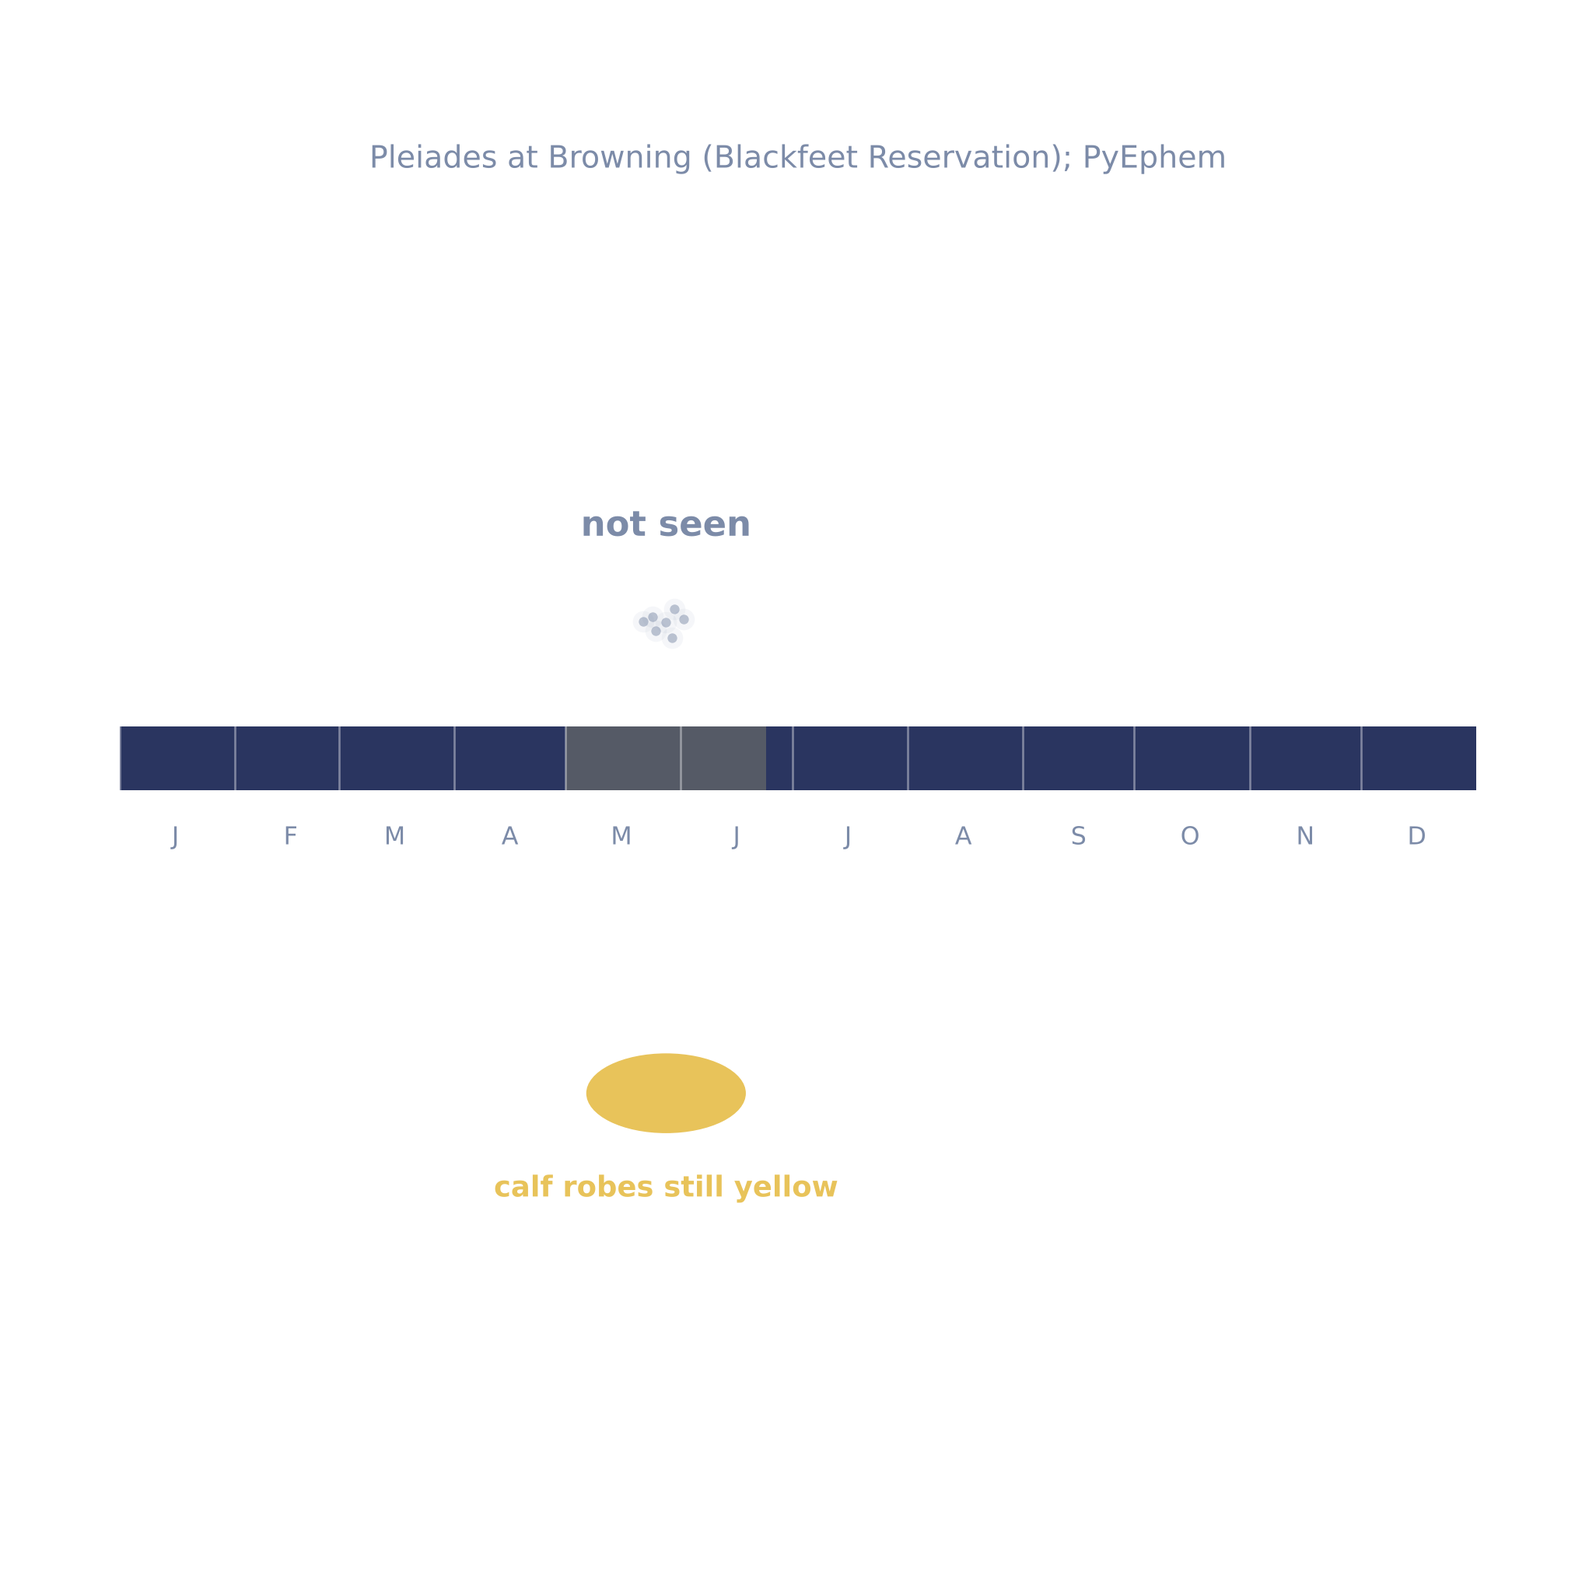
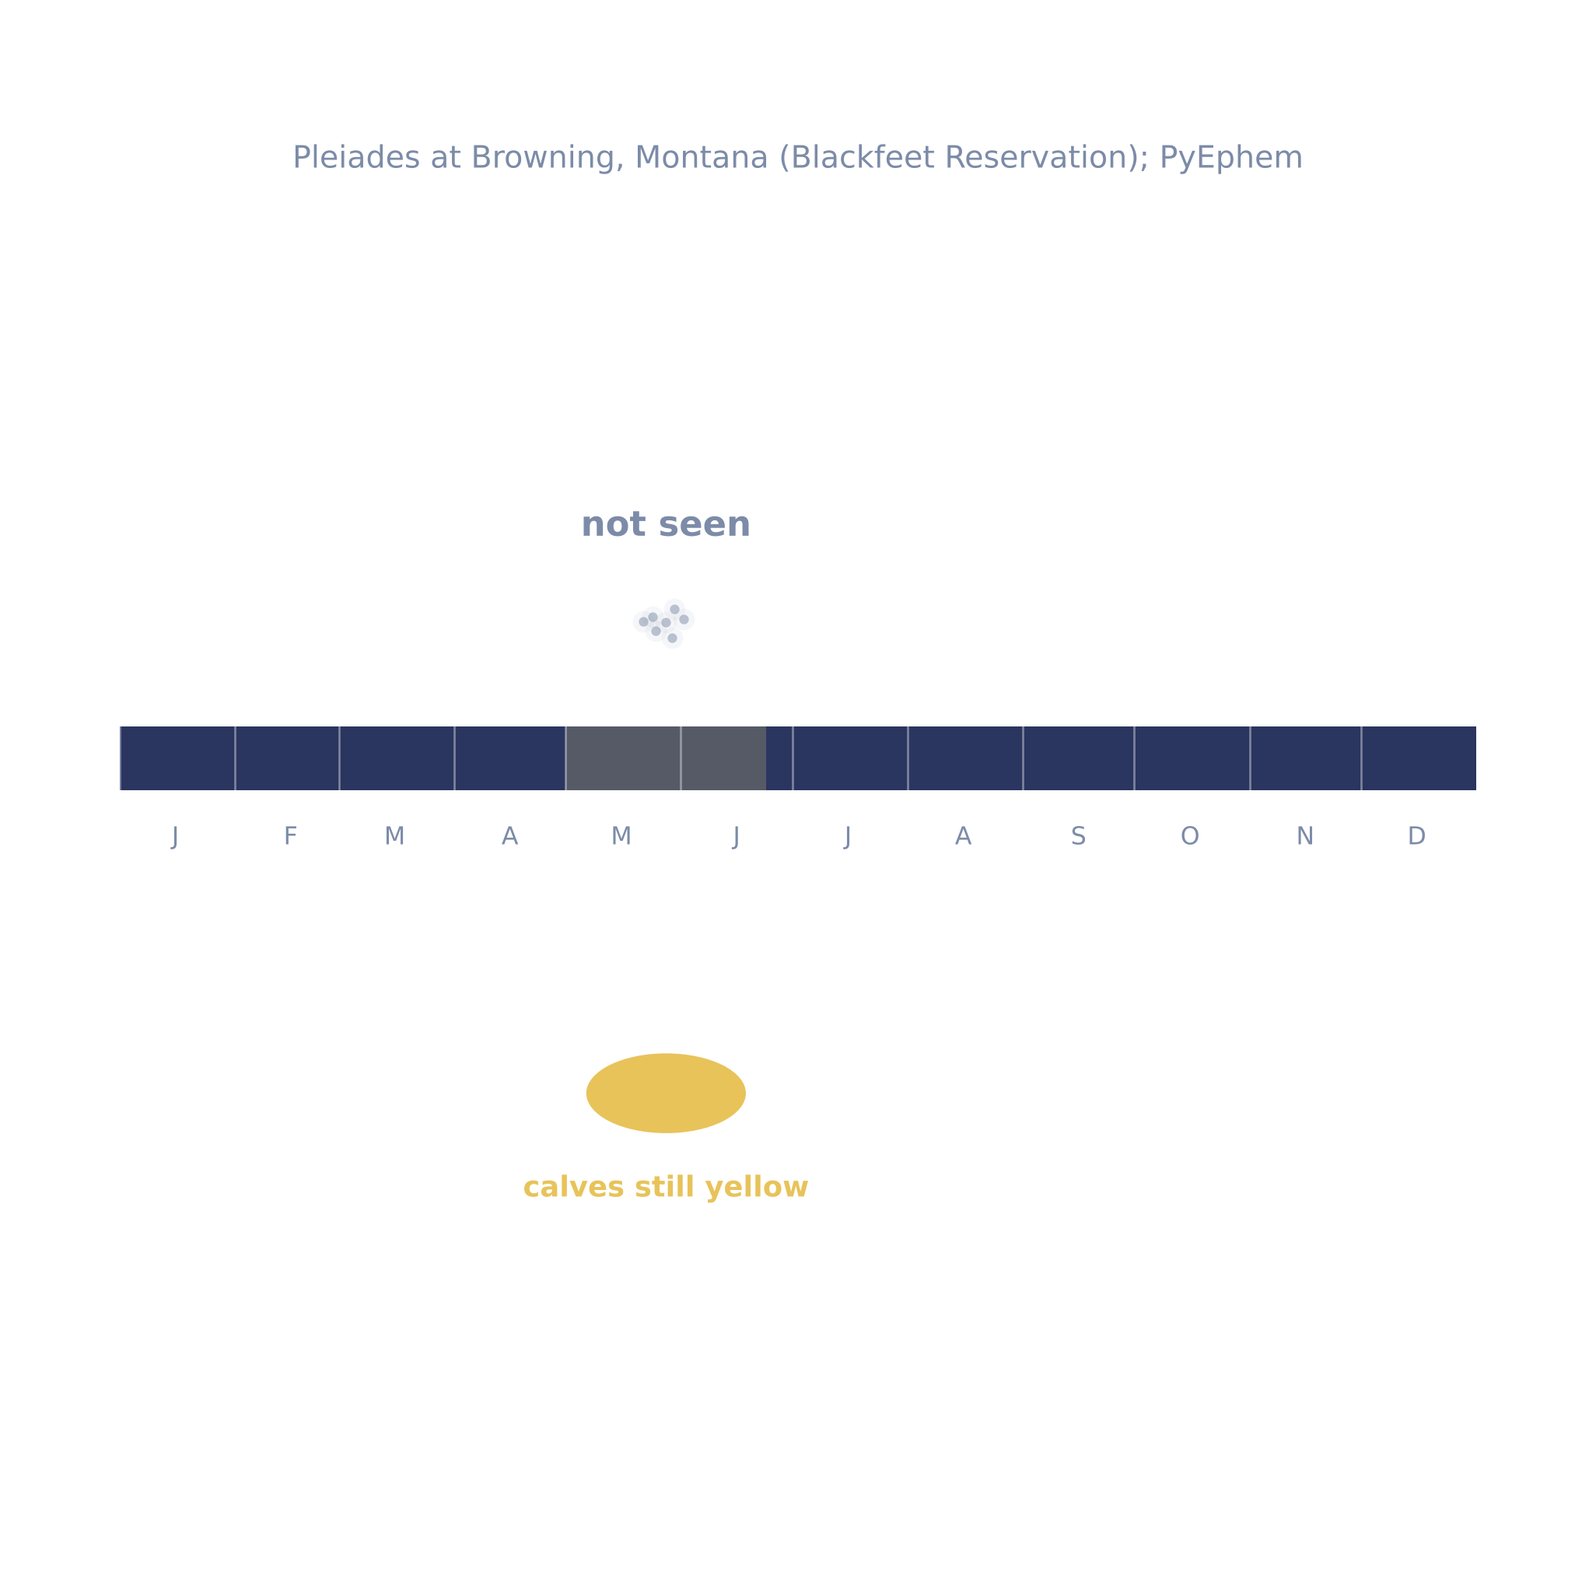
EN10 合併英文審稿：v0 → v1（採用 13 條、部分採用 3 條、不採用 3 條），重畫英文概念圖、重產逐頁文字與字幕，英文節目表改 v1
Claude-Session: https://claude.ai/code/session_019bt7Vj8K69fUpDfCPzi9no

Changed region(s): [[0.1871, 0.0936, 0.8109, 0.1248], [0.3119, 0.7173, 0.5302, 0.7485]]

diff --git a/02_製作流程SOP/make_a17_diagrams.py b/02_製作流程SOP/make_a17_diagrams.py
@@ -67,7 +67,7 @@ TXT = {
         "rain": "第八天，下雨了",
     },
     "en": {
-        "c01_title": "Three bands on a lodge", "c01_sub": "McClintock 1910 pp.217–220; generic sketch, no real design",
+        "c01_title": "Three bands on a tipi", "c01_sub": "McClintock 1910 pp.217–220; generic sketch, no real design",
         "sky": "Top band: the night sky", "dipper": "Big Dipper", "pleiades": "Pleiades", "sep": " · ", "morning": "Morning Star (cross)",
         "middle": "Middle: owner's design, not shown",
         "earth": "Bottom band: the earth", "dusty": "dusty stars = fallen meteors",
@@ -76,9 +76,9 @@ TXT = {
         "lake": "a lake appears", "tree": "up the tall tree", "fall": "four knocked down = the bowl",
         "c03_title": "The turnip she must not dig", "c03_sub": "McClintock 1910 p.492 ff.; Feather Woman",
         "skyland": "the sky country", "turnip": "great turnip", "hole": "through the hole: home below",
-        "c04_title": "The Lost Children vanish in spring", "c04_sub": "Pleiades at Browning (Blackfeet Reservation); PyEphem",
+        "c04_title": "The Lost Children vanish in spring", "c04_sub": "Pleiades at Browning, Montana (Blackfeet Reservation); PyEphem",
         "months": ["J", "F", "M", "A", "M", "J", "J", "A", "S", "O", "N", "D"], "mon": "",
-        "gone": "not seen", "yellow": "calf robes still yellow", "last": "May 1: last evening view", "back": "Jun 24: back at dawn",
+        "gone": "not seen", "yellow": "calves still yellow", "last": "May 1: last evening view", "back": "Jun 24: back at dawn",
         "brown": "autumn, calves turn brown: back every night", "oct": "Oct 10: back in the evening sky",
         "c05_title": "Tonight and tomorrow at dawn", "c05_date": "Fri Jan 15 evening · Sat Jan 16 dawn · Taipei",
         "p1": "8 pm: look straight up", "p2": "5:30 am: look southeast", "p3": "5:30 am: look north",

diff --git a/04_腳本庫/_英文版/EN10-A-17-Blackfoot-v1.md b/04_腳本庫/_英文版/EN10-A-17-Blackfoot-v1.md
@@ -1,0 +1,138 @@
+# EN10 ｜ Blackfoot: The Lost Children in the Sky ・ v1 (Gemini review merged)
+
+| Item | Content |
+|---|---|
+| Source | Chinese A-17 v2 (`A-17-黑腳族留在天上的六個孩子-逐字稿-v2.md`, fact-checked). Nothing here is new; see "Cuts and changes" for what was dropped. |
+| Publish | **2027-01-20 (Wed) 21:00 Taiwan time**: EN10 in `06_發布月曆/節目表_萬國星空_英文版.csv` (five days after the Chinese episode; the Pleiades are high in the evening sky) |
+| Length | **80 s**, 13 beats (cover + 10 story beats + 2 end cards), ~130 words on screen (no voice-over; text over light music) |
+| Story | One story only: **the Pleiades are the Lost Children**: six poor children with no yellow calf robes, mocked, lost on the prairie and taken into the sky, which is why they are missing in spring while the calves are yellow and come back when the calves turn brown. Opened by the painted tipi, whose black top band carries the Big Dipper and the Pleiades (the schedule’s hook; used in the caption, not on the cover) |
+| Canva | Not made yet. Copy of the Chinese design `A-17 黑腳族` (DAHWtKFbiSQ), to be named `EN10 A-17 黑腳族` (card 07). Page numbers below are the Chinese design’s numbers (= Chinese 製作表 page + 1; page 1 = cover, 59 = next-episode card, 60 = follow page, as in `A-17_補頁清單.md`). |
+| Opening line | *One sky. The Blackfoot saw — six lost children.* |
+| Reading speed | ≤ 2.5 words/sec on every page (max 2.3; = words in Text ÷ seconds that text is on screen, headline not counted; cover excluded as in EN01) |
+
+## Beats (text on screen)
+
+`Pos`: **cover** = cover text block; **bottom** = lower-third box (EN-B); **top** = headline box at the top (EN-A); **endcard** = replace the existing end-card text. All kept sky pages are wide-chart close-ups of the Pleiades with the label in the middle of the frame, so body text goes **bottom**. On the two diagram groups (4–6 tipi, 44–45 calendar) only a headline goes **top**, above the diagram card; the English diagrams carry their own captions.
+
+| # | Sec | On pages | Pos | Headline (≤ 6 words) | Text | w/s |
+|---|---|---|---|---|---|---|
+| E01 | 3 | 1 | cover | World Sky Cultures | One sky. The Blackfoot saw — six lost children. | — |
+| E02 | 5 | 2 | bottom | The Blackfoot | They call themselves Niitsitapi, “the real people.” Today: Alberta and Montana. | 2.2 |
+| E03 | 8 | 3 | bottom | | Over a century ago, a writer counted one Great Plains summer camp: one in ten tipis was painted. | 2.1 |
+| E04 | 10 | 4, 5, 6 | top | A night sky on the tipi | *(diagram `en/C-A17-01`: top band = the night sky, Big Dipper · Pleiades, Morning Star cross; bottom band = the earth)* | — |
+| E05 | 7 | 7 | bottom | | The designs came in dreams and belong to their owners. No one else may copy them. | 2.3 |
+| E06 | 8 | 41 | bottom | The Pleiades: the Lost Children | In spring, buffalo calves are yellow. After the hunt, children played in yellow calf robes. | 1.9 |
+| E07 | 7 | 42 | bottom | | Six poor children had none. The others laughed and called them “mangy old bulls.” | 2.0 |
+| E08 | 7 | 43 | bottom | | Ashamed to go home, they got lost on the prairie and were taken into the sky. | 2.3 |
+| E09 | 7 | 44, 45 | top | Gone while calves are yellow | *(diagram `en/C-A17-04`: not seen May–June at Browning, Montana; calves still yellow / autumn, calves turn brown)* | — |
+| E10 | 7 | 46 | bottom | | In autumn, when the calves turn brown, the children return every night. | 1.7 |
+| E11 | 8 | 50 | bottom | Look up this month | From northern latitudes, the Lost Children ride high in the south around 20:00. | 1.6 |
+| E12 | 3 | 59 | endcard | Next Wednesday: Ancient Egypt | The star that woke the Nile. | 2.0 |
+| E13 | 3 | 60 | endcard | | Follow for a new sky every week. | 2.3 |
+
+## Page sequence (what the editor sets in Canva)
+
+`Canva page` = the original page number (Chinese design); `Now` = filled in by the Canva pass after the unused pages are moved to the back. Transitions are Match & Move unless marked. Labels on kept pages are translated in the Canva pass: 走失的孩子 → Lost Children (Pleiades) (page 50 too: the Wolf Trail label is dropped with its narration); the Chinese 中譯 line is replaced by the English one, as in EN01.
+
+| Canva page | Now | Chinese page name | Sec to next | Note |
+|---|---|---|---|---|
+| 1 | | 開場字卡 | 3 | Cover: text block replaced with English (E01 only, one line; no second hook line); EN · EP10 tag |
+| 2 | | 鏡頭01開始 | 5 | E02 (the Chinese 字卡 is replaced) |
+| 3 | | 鏡頭01結束＝鏡頭02開始 | 8 | E03; label Lost Children |
+| 4 | | 鏡頭02-概念圖1 | 3 | diagram, English (`_概念圖/en/C-A17-01_三層的帳篷_帳篷層_透明.png`); E04 headline only |
+| 5 | | 鏡頭02-概念圖2 | 4 | + `en/…_夜空層`; E04 headline only |
+| 6 | | 鏡頭02-概念圖3 | 3 | + `en/…_大地層`; E04 headline only |
+| 7 | | 鏡頭02-概念圖收＝鏡頭03開始＝鏡頭04開始 | 7 | diagram fades; E05; label Lost Children; then the sky moves to 41 (pages 8–40, the seven brothers, the Dipper clock, the hole in the sky, Feather Woman, the Spider Man and Scarface, removed) |
+| 41 | | 鏡頭13-概念圖收＝鏡頭14開始 | 8 | E06; label Lost Children |
+| 42 | | 鏡頭14結束＝鏡頭15開始 | 7 | E07; label as 41 |
+| 43 | | 鏡頭15結束 | 7 | E08; label as 41 |
+| 44 | | 鏡頭15-概念圖1 | 3 | calendar diagram, English (`_概念圖/en/C-A17-04_春天看不見_日曆層_透明.png`); E09 headline only |
+| 45 | | 鏡頭15-概念圖2 | 4 | + `en/…_回來層`; E09 headline only |
+| 46 | | 鏡頭15-概念圖收＝鏡頭16開始 | 7 | diagram fades; E10; label as 41; then straight to 50 (pages 47–49, the dogs version, removed; the frame does not move) |
+| 50 | | 鏡頭16-概念圖收＝鏡頭17開始 | 8 | E11; label Lost Children (Pleiades) |
+| 59 | | 端卡（下集見） | 3 | E12 |
+| 60 | | 追蹤頁 | — | E13 |
+
+Total 80 s.
+
+## Glossary (every name used)
+
+| Chinese script | English used | Notes |
+|---|---|---|
+| 黑腳族 | the Blackfoot | the Blackfeet Reservation (Montana) only in the diagram subtitle |
+| Niitsitapi | Niitsitapi, “the real people” | spelling flagged in the Chinese 待查核 #1; same as the Chinese screen |
+| 亞伯達、蒙大拿 | Alberta and Montana | |
+| tipi | tipi | diagram title “Three bands on a tipi” |
+| 大平原 | the Great Plains | |
+| 一位美國作者（McClintock） | a writer | name in the description / first comment |
+| 塵土星 | dusty stars | diagram caption only |
+| 晨星 | the Morning Star | diagram caption only |
+| 北斗 | the Big Dipper | cover hook and diagram |
+| 走失的孩子（昴宿） | the Lost Children (the Pleiades) | McClintock’s “Lost Children”; the Blackfoot-language name is not shown (spelling unsettled, as in the Chinese) |
+| 長癬的老公牛 | mangy old bulls | |
+| 小牛皮（黃色） | yellow calf robes | McClintock’s “yellow” (Wissler: red) |
+
+## YouTube
+
+- **Title**: Blackfoot: the Lost Children in the sky
+- **Description**:
+  On the Great Plains, some Blackfoot tipis carried a painted night sky: the Big Dipper and the Pleiades on a black band at the top. The Pleiades are the Lost Children: six poor children with no calf robes, mocked by the others, who got lost on the prairie and were taken into the sky. That is why they are missing in spring, while the calves are yellow, and come back in autumn.
+  World Sky Cultures: the same sky, seen by different peoples. From the NTNU Astronomy Club, Taiwan. New episode every Wednesday.
+  Sources: Walter McClintock, The Old North Trail (1910), pp. 217–220, 490; Wissler & Duvall, Mythology of the Blackfoot Indians (1908), for other versions of the story; Stellarium sky culture “blackfoot” (after D. S. Miller 1997).
+
+## Caption (Instagram / Facebook / Threads)
+
+Painted on top of the tipi: the Big Dipper and the Pleiades. ⛺
+On the Great Plains, the Blackfoot (Niitsitapi) painted the top band of some tipis black: a night sky with the Big Dipper, the Pleiades and a cross for the Morning Star. The designs came in dreams and belong to their owners.
+The Pleiades are the Lost Children: six poor children with no yellow calf robes, mocked by the others, who got lost on the prairie and were taken into the sky. So in spring, while the calves are yellow, they are gone; when the calves turn brown, they come back.
+From northern latitudes, look high in the south around 20:00 this month.
+Next Wednesday: Ancient Egypt and the star that woke the Nile.
+#WorldSkyCultures #astronomy #stars #Blackfoot #Pleiades #BigDipper #skylore
+(First comment: sources: McClintock, The Old North Trail, 1910, pp. 217–220, 490; Wissler & Duvall 1908, pp. 71–72 (a different version: red calf robes); Stellarium “blackfoot”, after Miller 1997. We do not reproduce any real tipi design.)
+
+## Cuts and changes (for the reviewer)
+
+Dropped from the Chinese version (all still in the Chinese episode): the bridge from last week’s Navajo episode; the dusty stars on screen (kept only on the diagram); the seven brothers and their sister (Big Dipper story, 05–07); the Dipper as a night clock, “the last brother” (08); the Pole Star as a hole in the sky (09); Feather Woman and the turnip (10); the Spider Man’s lodge (11); Scarface Poïa = Jupiter (12) and the two morning stars of 1905 (13); the dogs version of the Lost Children (16); the Wolf Trail line (17, kept as a label only); the Taipei tonight-and-tomorrow card with Venus and Jupiter (18); the Egypt bridge (19, replaced by next Wednesday’s English episode).
+
+Wording to check (as merged in v1):
+1. E02 “Today: Alberta and Montana” = 02 鏡「今天分住在加拿大的亞伯達和美國的蒙大拿」.
+2. E03 “Over a century ago, a writer counted one Great Plains summer camp: one in ten tipis was painted” = 02 鏡「以前」＋03 鏡「一百多年前……十頂帳篷就有一頂畫了圖」 (McClintock: 35 of 350 at one Sun Dance camp; written as one camp to answer the Chinese 待查核 #7 about over-generalising).
+3. E05 “The designs came in dreams and belong to the owner. No one else may copy them.” = 04 鏡「這些圖案屬於主人，是夢裡得來的，別人不能照著畫」.
+4. E06 “buffalo calves are yellow … After the hunt” = 14 鏡「春天獵到野牛，小牛皮是黃的」.
+5. E07 “mangy old bulls” = 「長癬的老公牛」 (McClintock).
+6. E08 “got lost on the prairie and were taken into the sky” = 15 鏡「在草原上走失，被帶上了天」 (passive kept; the Chinese does not say by whom).
+7. E09/E10 “Gone while calves are yellow … In autumn, when the calves turn brown, the children return every night” = 15 鏡「春天，小牛還是黃的時候，天上看不到他們；等到秋天小牛轉成褐色，他們才每晚回來」. The diagram’s dates (May 1, Jun 24, Oct 10) are the Chinese diagram’s Browning computation.
+8. E11 is rewritten for northern latitudes (24-hour time): the Chinese says the Pleiades are overhead at 20:00 in Taipei on 15 January. On 20 January they cross the meridian around 19:50 local time, about 66–76° up between 50° N and 40° N, so “ride high in the south” holds.
+9. The schedule hook (“on top of the tipi”, as the Chinese note corrected from “at the door”) is not on the cover any more; it opens the caption.
+10. Page sequence is the authority for timing (total 80 s). The Sec column in Beats is not additive.
+
+## 審稿合併 (Gemini review → v1)
+
+Review table has 16 rows; each was checked against the Chinese v2 (A-17 逐字稿 v2). 13 adopted, 3 partly adopted, 3 not adopted (a few rows are grouped below).
+
+Adopted:
+1. E01 / Page 1 (🔴): cover is one line only, no second tipi hook line (3 s cannot hold two lines). Adds “six”: the Chinese title and 14 鏡 say six children.
+2. E03 (🔴): “Over a century ago, a writer counted one Great Plains summer camp: one in ten tipis was painted.” Restores 以前／一百多年前 so nobody reads it as today; still one camp (待查核 #7).
+3. E11 (🔴): “20:00” instead of “8 p.m.”, in the caption too (24-hour rule).
+4. E11 (🔴): headline “Look up this month”; text “From northern latitudes, the Lost Children ride high in the south around 20:00.” The Chinese is for Taipei (overhead); the south-sky claim only holds in the north.
+5. E12 (🔴): “Next Wednesday: Ancient Egypt” / “The star that woke the Nile.” The v0 text was 8 words ÷ 3 s = 2.7 w/s, over 2.5.
+6. E05: “their owners” (matches the caption); w/s corrected to 2.3.
+7. E06: “In spring, buffalo calves are yellow. After the hunt, children played in yellow calf robes.” Both halves are in 14 鏡 (小牛皮是黃的) and 15 鏡 (小牛還是黃的); 1.9 w/s.
+8. E07: “laughed and called them” (被大家笑是); w/s corrected to 2.0.
+9. E08: “got lost on the prairie” (走失); “up” dropped. YouTube description and caption changed to match.
+10. E09 note and diagram: “calves still yellow” (not “calf robes”), “Browning, Montana”. English strings in `make_a17_diagrams.py` fixed and `_概念圖/en/C-A17-04` redrawn.
+11. E10: “the children return every night” (no “they” ambiguity).
+12. Page 50 / Glossary: the Wolf Trail label goes (its narration was cut); the page keeps Lost Children (Pleiades). Glossary row removed.
+13. Header: “13 beats” (⚪).
+
+Partly adopted:
+- E04 / Glossary (⚪): the diagram title changes from “lodge” to “Three bands on a tipi” (`en/C-A17-01` redrawn); the E04 headline stays “A night sky on the tipi” (already says tipi).
+- YouTube / Caption sources: Wissler & Duvall is kept (the Chinese first comment cites it) but labelled “other versions” / “a different version: red calf robes”, not deleted.
+- E02 / E07 punctuation (⚪): period moved inside the closing quote, as in EN05–EN07.
+
+Not adopted:
+- E01 alternative hook “Six lost children in the sky — gone every spring.”: the cover keeps the series pattern *One sky. The [people] saw — [X].*
+- E02 shorter version (“Today, the Blackfoot live in Alberta and Montana.”): it drops the self-name Niitsitapi, which is the point of 02 鏡 (自稱：真正的人).
+- Page 60 seconds / total (⚪): the follow page shows “—” and 80 s does not include it, as in the other episodes; no change.
+
+Gemini’s section 3 notes: Niitsitapi spelling stays as in the Chinese 待查核 #1; both diagrams were checked and redrawn; no latitude numbers are shown on screen.

diff --git a/06_發布月曆/進度板.md b/06_發布月曆/進度板.md
@@ -77,7 +77,7 @@
 | EN48 | A-09 | 2027/01/10 | v0 | ✓ | — | 進行中 | Ⓕ 卡 06｜Sonnet medium｜`英文集號：EN48`；ⒹⒺ 你：中文 ⑨ 後複製 → 「EN48 A-09 夏威夷星線」；卡 07｜Sonnet medium｜`英文集號：EN48　Canva 設計名：EN48 A-09 夏威夷星線` |
 | EN09 | A-16 | 2027/01/13 | v0 | ✓ | — | 進行中 | Ⓕ 卡 06｜Sonnet medium｜`英文集號：EN09`；ⒹⒺ 你：中文 ⑨ 後複製 → 「EN09 A-16 納瓦荷」；卡 07｜Sonnet medium｜`英文集號：EN09　Canva 設計名：EN09 A-16 納瓦荷` |
 | EN41 | A-05 | 2027/01/17 | v0 | ✓ | — | 進行中 | Ⓕ 卡 06｜Sonnet medium｜`英文集號：EN41`；ⒹⒺ 你：中文 ⑨ 後複製 → 「EN41 A-05 日本」；卡 07｜Sonnet medium｜`英文集號：EN41　Canva 設計名：EN41 A-05 日本` |
-| EN10 | A-17 | 2027/01/20 | v0 | ✓ | — | 進行中 | Ⓕ 卡 06｜Sonnet medium｜`英文集號：EN10`；ⒹⒺ 你：中文 ⑨ 後複製 → 「EN10 A-17 黑腳族」；卡 07｜Sonnet medium｜`英文集號：EN10　Canva 設計名：EN10 A-17 黑腳族` |
+| EN10 | A-17 | 2027/01/20 | v1 | ✓ | — | 進行中 | ⒹⒺ 你：中文 ⑨ 後複製 → 「EN10 A-17 黑腳族」；卡 07｜Sonnet medium｜`英文集號：EN10　Canva 設計名：EN10 A-17 黑腳族` |
 | EN11 | A-18 | 2027/01/27 | — | — | — | Ⓐ | 卡 05｜Opus medium｜`中文集號：A-18、A-10`（EN11＋EN49 一組） |
 | EN49 | A-10 | 2027/01/31 | — | — | — | Ⓐ | 卡 05｜Opus medium｜`中文集號：A-18、A-10`（EN11＋EN49 一組） |
 | EN12 | A-19 | 2027/02/03 | — | — | — | Ⓐ | 卡 05｜Opus medium｜`中文集號：A-19、A-20`（EN12＋EN13 一組） |
